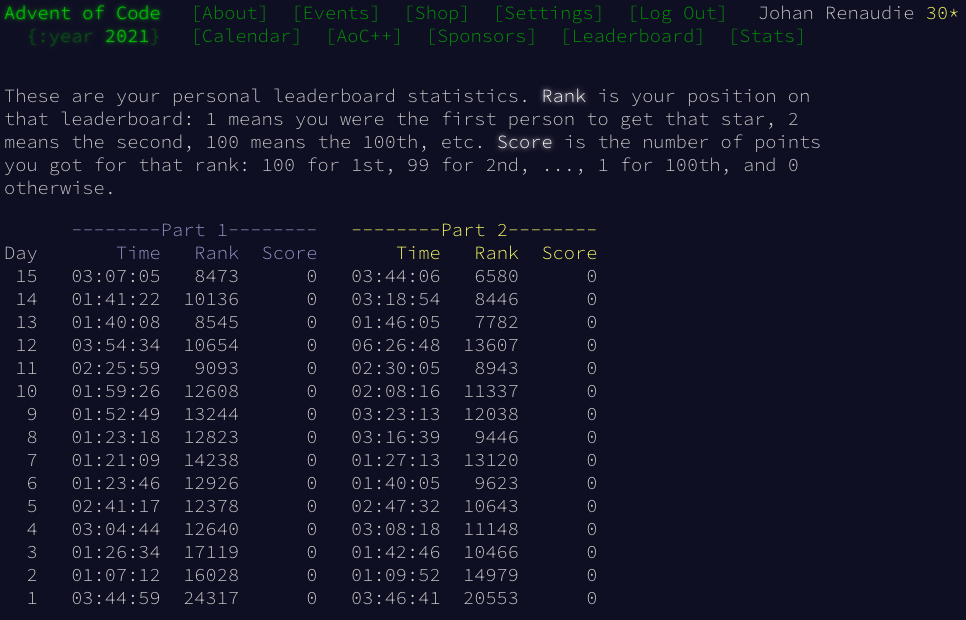
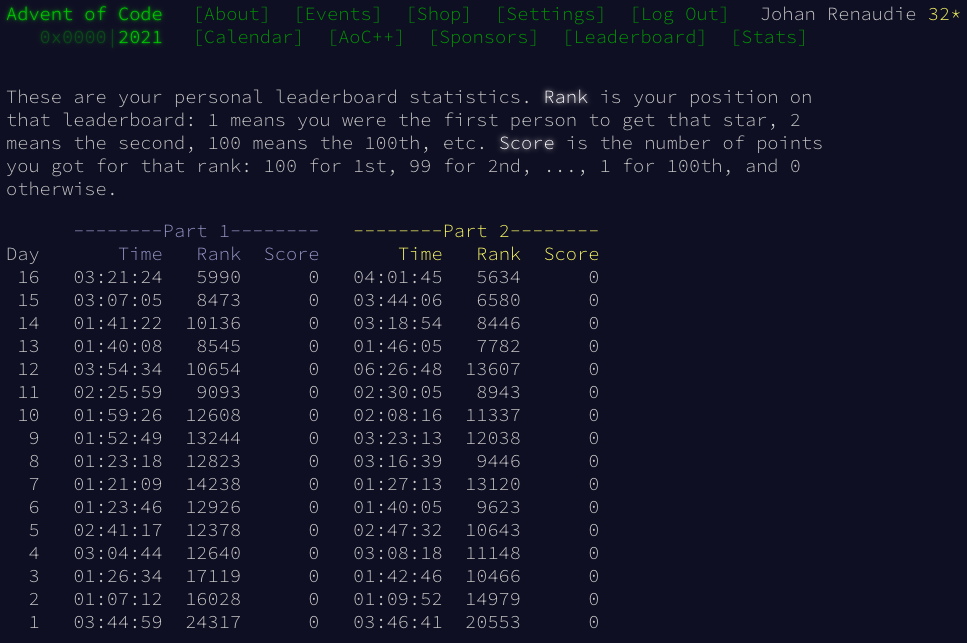
day16

diff --git a/2021/test.py b/2021/test.py
@@ -1,0 +1,83 @@
+import sys
+inf = sys.argv[1] if len(sys.argv) > 1 else 'input'
+
+ll = [x for x in open(inf).read().strip().split('\n')]
+parse = {'0':'0000',
+'1':'0001',
+'2':'0010',
+'3':'0011',
+'4':'0100',
+'5':'0101',
+'6':'0110',
+'7':'0111',
+'8':'1000',
+'9':'1001',
+'A':'1010',
+'B':'1011',
+'C':'1100',
+'D':'1101',
+'E':'1110',
+'F':'1111'}
+
+data = ll[0]
+data = "".join([parse[x] for x in data])
+
+sumofversions=0
+def parse(data):
+    global sumofversions
+    version = int(data[:3],2)
+    sumofversions+=version
+    data=data[3:]
+
+    tid = int(data[:3],2)
+    data=data[3:]
+    if tid == 4:
+        t = ""
+        while True:
+            t += data[1:5]
+            cnt = data[0]
+            data=data[5:]
+            if cnt == '0':
+                break
+        return (data, int(t,2))
+    else:
+        ltid= data[0]
+        data=data[1:]
+        spv = []
+        if ltid == '0':
+            l = data[:15]
+            data=data[15:]
+            subpacketslen = int(l, 2)
+            subpackets = data[:subpacketslen]
+            while subpackets:
+                s,x = parse(subpackets)
+                subpackets=s
+                spv.append(x)
+            data=data[subpacketslen:]
+        else:
+            l = data[:11]
+            data=data[11:]
+            subpacketsqty = int(l, 2)
+            for i in range(subpacketsqty):
+                s,x=parse(data)
+                data=s
+                spv.append(x)
+        if tid == 0:
+            return (data, sum(spv))
+        if tid == 1:
+            p = 1
+            for x in spv:
+                p*=x
+            return (data,p)
+        if tid == 2:
+            return (data, min(spv))
+        if tid == 3:
+            return (data, max(spv))
+        if tid == 5:
+            return (data, 1 if spv[0]>spv[1] else 0)
+        if tid == 6:
+            return (data, 1 if spv[0]<spv[1] else 0)
+        if tid == 7:
+            return (data, 1 if spv[0]==spv[1] else 0)
+
+print(parse(data)[1])
